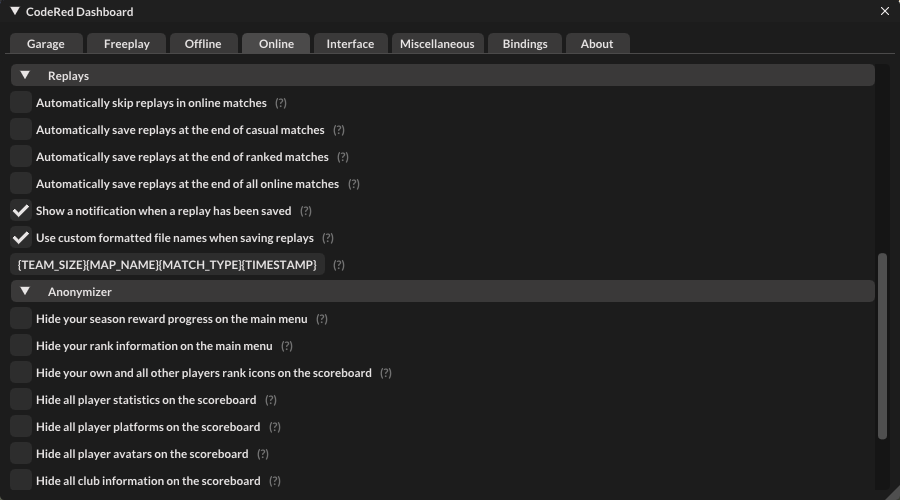
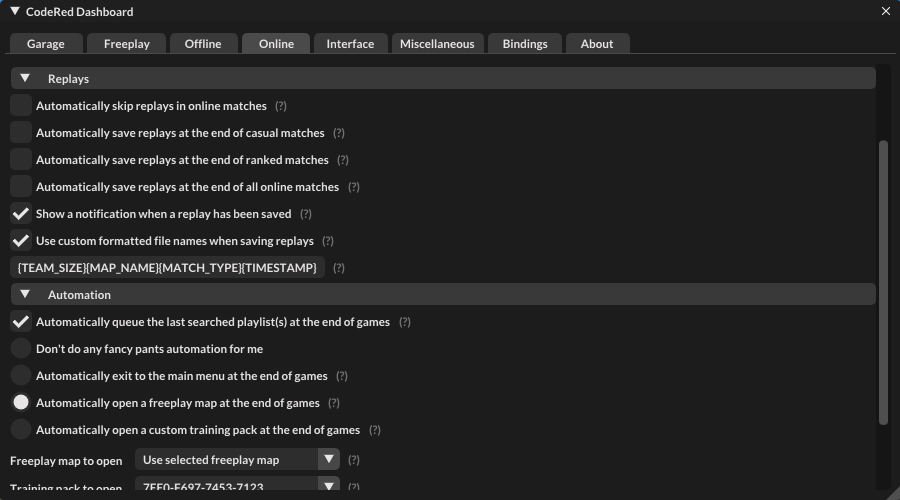
Initial Commit

diff --git a/documentation.html b/documentation.html
@@ -92,7 +92,7 @@
 				    <li class="nav-item"><a class="nav-link scrollto" href="#item-6-3">Custom Titles</a></li>
                     <li class="nav-item"><a class="nav-link scrollto" href="#item-6-4">Bug Reporting</li>
 				    <li class="nav-item section-title mt-3"><a class="nav-link scrollto" href="#section-7"><span class="theme-icon-holder me-2"><i class="fas fa-book"></i></span>Changelog</a></li>
-				    <li class="nav-item"><a class="nav-link scrollto" href="#item-7-1">Version 1.1.8</a></li>
+				    <li class="nav-item"><a class="nav-link scrollto" href="#item-7-1">Version 1.1.9</a></li>
 			    </ul>
 		    </nav>
 	    </div>
@@ -861,12 +861,12 @@
                                         <td>Enable april fools vegetable rank icons.</td>
                                     </tr>
                                     <tr>
-                                        <th class="theme-bg-light"><b>interface_auto_fps_limit &lt30-144&gt</b></th>
-                                        <td>Value to automatically limit your fps to when not in focus.</td>
-                                    </tr>
-                                    <tr>
                                         <th class="theme-bg-light"><b>interface_auto_limit_fps &lttrue-false&gt</b></th>
                                         <td>Automatically limits your fps to the set value when Rocket League is not in focus.</td>
+                                    </tr>
+                                    <tr>
+                                        <th class="theme-bg-light"><b>interface_auto_fps_limit &lt30-144&gt</b></th>
+                                        <td>Value to automatically limit your fps to when not in focus.</td>
                                     </tr>
                                     <tr>
                                         <th class="theme-bg-light"><b>interface_auto_reset_buffer &lttrue-false&gt</b></th>
@@ -891,6 +891,30 @@
                                     <tr>
                                         <th class="theme-bg-light"><b>interface_autoskip_replays &lttrue-false&gt</b></th>
                                         <td>Automatically skip replays in online matches.</td>
+                                    </tr>
+                                    <tr>
+                                        <th class="theme-bg-light"><b>interface_auto_queue &lttrue-false&gt</b></th>
+                                        <td>Automatically queue the last searched playlist(s) at the end of online matches.</td>
+                                    </tr>
+                                    <tr>
+                                        <th class="theme-bg-light"><b>interface_auto_menu &lttrue-false&gt</b></th>
+                                        <td>Automatically exit to the main menu at the end of online matches.</td>
+                                    </tr>
+                                    <tr>
+                                        <th class="theme-bg-light"><b>interface_auto_freeplay &lttrue-false&gt</b></th>
+                                        <td>Automatically open a freeplay map at the end of online matches.</td>
+                                    </tr>
+                                    <tr>
+                                        <th class="theme-bg-light"><b>interface_auto_training &lttrue-false&gt</b></th>
+                                        <td>Automatically open a custom training pack at the end of online matches.</td>
+                                    </tr>
+                                    <tr>
+                                        <th class="theme-bg-light"><b>interface_auto_freeplay_map &ltarguments&gt</b></th>
+                                        <td>The freeplay map name to open for the auto freeplay setting.</td>
+                                    </tr>
+                                    <tr>
+                                        <th class="theme-bg-light"><b>interface_auto_training_code &ltarguments&gt</b></th>
+                                        <td>The custom training pack code to open for the auto training setting.</td>
                                     </tr>
                                     <tr>
                                         <th class="theme-bg-light"><b>interface_blog_description &ltarguments&gt</b></th>
@@ -1653,6 +1677,19 @@
 					    <h1 class="docs-heading">Changelog</h1>
 				    </header>
 				     <section class="docs-section" id="item-7-1">
+                        <h2 class="section-heading">Version 1.1.9 (January 7th 2023)</h2>
+                        <h5>- Added five new automation settings inspired by ToolB0x's \"Instant Suite\" plugin.</h5>
+                        <h5>- Added the <code>interface_auto_queue</code> setting, when it enabled it automatically re-queues for you at the end of games.</h5>
+                        <h5>- Added the <code>interface_auto_menu</code> setting, when it enabled it automatically exits to the main menu at the end of games.</h5>
+                        <h5>- Added the <code>interface_auto_freeplay</code> setting, when it enabled it automatically puts you in freeplay at the end of games.</h5>
+                        <h5>- Added the <code>interface_auto_training</code> setting, when it enabled it automatically puts you in custom training at end of games.</h5>
+                        <h5>- Added the <code>interface_auto_delay</code> setting, which allows you to set the delay when executing automation settings in seconds.</h5>
+                        <h5>- Upgraded the backend ImGui framework to version 1.89.2.</h5>
+                        <h5>- Fixed the item shop button on the main menu not appearing until you clicked into a different menu.</h5>
+                        <h5>- Fixed the hide your season rewards option sometimes not applying after ranked matches.</h5>
+                        <h5>- Fixed an issue with not locating your downloaded training pack codes.</h5>
+                        <h5>- Other ImGui backend changes.</h5>
+
                         <h2 class="section-heading">Version 1.1.8 (January 5th 2023)</h2>
                         <h5>- Added a new setting <code>interface_disable_roulette</code>, which automatically skips the reveal animation when opening item drops.</h5>
                         <h5>- Added additional safety and range checks for the car and ball rotation/location commands.</h5>
